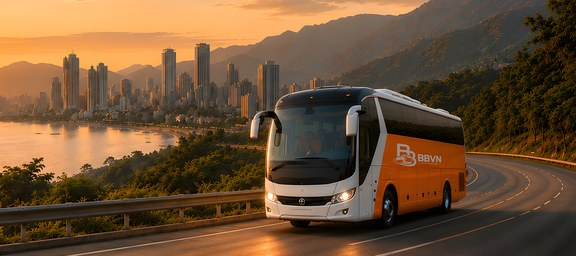
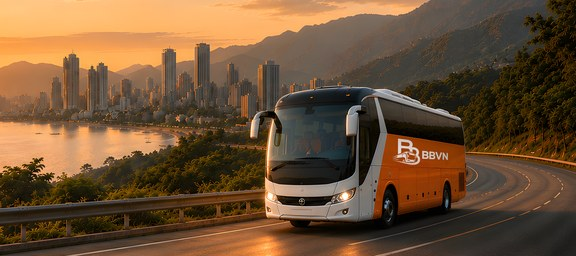
fix(hero): the bus decal was sub-pixel, unlit and sitting on a panel seam
Five measured passes over the flank livery after seeing it rendered. Each
started from a measurement, and three of them corrected a mistake from the pass
before.

1. THE TAGLINE COULD NEVER RENDER

The lockup carried strokes physically smaller than a pixel at the size it draws.
Measured against the source at the decal's real on-screen footprint:

    components                     26
    thinner than 1 CSS px          10  (38%), thinnest 0.34px
    "BUS BOOKING" rule height      2.0-2.9 CSS px at EVERY breakpoint
                                   (mobile 2.22, md 1.96, lg 2.14, 3xl 2.86)

Sub-pixel strokes cannot be drawn; they alias into the grey smear that was
visible under BBVN. For that rule to reach a legible 8px the decal would have to
span ~65% of the whole visible bus, so this is arithmetic, not a preference. It
is erased by alpha within the wordmark column -- never by cropping the canvas,
since the mark spans y[0,287] and a crop would behead it.

Wordmark glyphs now render 10.5-12.7 CSS px. The 7 remaining sub-pixel
components all sit INSIDE the monogram, where they read as texture rather than
as broken text.

2. SIZE AND POSITION ARE NOW SOLVED, NOT CHOSEN

The usable band is only ~225px tall and both edges slope:

    panel top (orange/window)   y 2265 @ x5220  ->  2332 @ x5640
    horizontal panel seam       y 2502 @ x5240  ->  2519 @ x5660

The panel top descends FASTER (0.1595/px) than the decal's own top edge
[…]

Changed region(s): [[0.6875, 0.5312, 0.7812, 0.6562]]

diff --git a/scripts/hero-logo.py b/scripts/hero-logo.py
@@ -63,7 +63,25 @@ LOGO = os.path.join(REPO, "public", "brand", "logo-horizontal-white.png")
 # Work box around the flank artwork, kept strictly INSIDE the orange panel.
 # A taller box clipped the darker window band above and the seam below, and the
 # panel fit then had to model two surfaces at once (grain sigma 6.79 vs 3.16).
-BOX = (5200, 2312, 5530, 2534)  # x0, y0, x1, y1
+#
+# x1 stays at 5530 even though the decal now reaches 5632. Widening it to 5650 to
+# "cover the whole decal" was tried and made things WORSE: the fit degraded (grain
+# sigma 3.16 -> 4.01) and the illumination it produced stopped tracking the paint
+# (correlation with the real falloff dropped 0.976 -> 0.568) while overshooting
+# into the clamp. The narrow box is better conditioned; its shape is right and
+# only its amplitude is short, which MODULATION_GAIN corrects.
+#
+# y1 stops at 2498 to stay ABOVE the panel seam (y 2502-2519), whose dark line
+# would otherwise drag the fit -- the robust pass rejects only positive residuals,
+# so a dark seam survives it.
+BOX = (5200, 2312, 5530, 2498)  # x0, y0, x1, y1  -- where the panel is FITTED
+
+# ...but the old artwork reaches y 2522, BELOW that. Fitting and erasing must
+# therefore use different regions: shrinking BOX to 2498 left the artwork's lower
+# fragments (x[5283,5329] y[2507,2522]) outside the erase mask, and they survived
+# as a stray light shape under the monogram. The panel model is simply evaluated
+# down here rather than fitted here.
+ERASE_BOX = (5200, 2312, 5530, 2534)
 
 # Measured plane gradients (see module docstring).
 TOP_SLOPE = 9.0 / 69.0
@@ -72,20 +90,119 @@ CAP_REF_X = 5379.0   # centre x of the first cap glyph
 CAP_AT_REF = 68.0    # its measured cap height
 
 # Destination anchor: left edge of the artwork block being replaced.
-# The real lockup is wider per unit cap height than the AI one (6.9x vs 4.0x)
-# because of the mark plus the "BUS BOOKING" rule, so it cannot both match the
-# old cap height AND fit the old footprint. 360 keeps the decal close to the
-# artwork it replaces (272 wide) without shrinking the wordmark to illegibility,
-# and leaves clear margin before the rear vent at x~5706.
+#
+# Size and centre are SOLVED against the panel's real boundaries, not chosen.
+# The usable band is only ~225px tall and both of its edges slope:
+#
+#   panel top (orange/window)   y 2265 @ x5220  ->  2332 @ x5640
+#   horizontal panel seam       y 2502 @ x5240  ->  2519 @ x5660
+#
+# and the panel top descends FASTER (0.1595/px) than the decal's own top edge
+# (TOP_SLOPE 0.1304/px), so clearance shrinks left-to-right and the binding
+# corner is the top-RIGHT one. Solving for the largest width keeping >=10px at
+# all four corners gives W=410, cy=2390: top 26/14, bottom 13/23.
+#
+# W=430 looked fine on the left and left only 2.9px at the top right. The
+# previous W=360/cy=2413 cleared the seam by 3.0px, i.e. the decal was sitting
+# ON the panel seam -- a line running through the base of the monogram, which is
+# part of why it read as "broken".
+#
+# The rear vent is NOT a constraint: measured at x[5712,5753] y[2560,2680], it is
+# both right of and below the decal.
 DEST_X = 5222
-DEST_W = 360
-ART_CY = 2413  # centre of the artwork block y[2323,2503]
+DEST_W = 410
+ART_CY = 2390
 
-# The flank is in shadow: its existing white livery ink renders at RGB
-# (151, 149, 151), NOT 255. Compositing at full white made the lockup read as a
-# sticker lying on the paint rather than sprayed into it. Measured on the eroded
-# CORE of the old artwork so anti-aliased edge pixels do not drag it down.
-INK_LEVEL = 150.0
+# Panel boundaries, measured. Used to ASSERT containment after the quad is built,
+# because the margins are 13-26px and a later constant change would eat them
+# silently.
+def panel_top_at(x):
+    return 2265.0 + (2332.0 - 2265.0) / (5640.0 - 5220.0) * (x - 5220.0)
+
+
+def panel_seam_at(x):
+    return 2502.0 + (2519.0 - 2502.0) / (5660.0 - 5240.0) * (x - 5240.0)
+
+
+MIN_MARGIN = 10.0
+
+# The wordmark's "BUS BOOKING" rule and its flanking dashes are ERASED before
+# warping. Measured on the source: they land 2.0-2.9 CSS px tall at every
+# breakpoint (mobile 2.22, md 1.96, lg 2.14, 3xl 2.86), which cannot be drawn --
+# 10 of the lockup's 26 components are thinner than one CSS pixel on screen, the
+# thinnest 0.34px, and they alias into the grey smear under BBVN. For the rule to
+# reach a legible 8px the decal would have to span ~292 CSS px, about 65% of the
+# whole visible bus.
+#
+# Erase by ALPHA within the wordmark column, never by cropping the canvas: the
+# mark spans y[0,287], nearly the full height, so a crop would behead it.
+#   MARK      x[0,296]    y[0,287]
+#   WORDMARK  x[321,681]  y[113,246], with a clean row gap at y[212,228]
+TAGLINE_X0 = 321
+TAGLINE_Y0 = 228
+
+# The flank is in shadow, so the decal is NOT full white -- compositing at 255
+# made the lockup read as a sticker lying on the paint rather than sprayed into
+# it. But 150, taken from the eroded core of the old artwork, was too dark: it
+# left the decal dimmer than the vehicle's own paintwork and, worse, gave it no
+# separation in the red channel.
+#
+#     decal   rgb(151.9, 143.3, 140.2)
+#     orange  rgb(154.0,  60.0,   3.9)
+#             R  -2.0     G +83.3   B +136.3
+#
+# The decal's red was IDENTICAL to the orange it sits on, so the logo separated
+# only through green and blue and read grey rather than white. Raising the level
+# fixes brightness and separation together, because all three channels scale.
+#
+# WHERE THE CEILING ACTUALLY IS. An earlier pass set this to 165 on the grounds
+# that "the brightest white bodywork is 162.3" -- but that figure was the MEAN of
+# a detected blob, dragged down by shaded and anti-aliased edge pixels, and it
+# badly understated the real whites. Measured against the whole frame instead:
+#
+#     frame luma   p50 139.9 | p75 187.2 | p90 204.8 | p95 209.6 | p99 232.0
+#     white pixels on the bus itself, p99: 250.0
+#
+# At 165 the decal sat near the frame's 60th PERCENTILE, i.e. darker than most of
+# the image, which is why it kept reading grey however the numbers were framed.
+#
+# Chosen off a rendered ladder (172/190/210/230 composited and compared at true
+# render scale) rather than from a formula, after three formula-driven guesses in
+# a row missed. Measured on the decal, with the frame percentile it lands at:
+#
+#     INK   mark   wordmark   mean   Rsep   frame pct
+#     172   169.1     155.5   165.0  +17.5     61%   <- judged too dark
+#     190   186.2     171.2   181.6  +34.3     70%
+#     210   205.1     188.6   200.0  +53.0     86%   <- chosen
+#     230   223.9     206.0   218.5  +71.6     98%   <- judged too bright
+#
+# 210 sits above most of the image but below the vehicle's own 250 peak white.
+# 190 is deliberately not used: at p70 it is close to the 172 already called dark.
+#
+# Note the alpha-0.94 composite: the rendered result lands ~4% BELOW this
+# constant, the remaining 6% being orange panel showing through.
+#     0.94 * 210 + 0.06 * 81 (panel) = 202
+INK_LEVEL = 210.0
+
+# Amplitude of the illumination modulation. See the modulation block in main()
+# for why a gain is needed at all rather than using the fitted surface directly.
+#
+# Calibrated by sweep against the real paint, which swings 25.6% across the
+# decal's own band. Resulting ink swing / correlation with that falloff:
+#     gain 2.0 -> 17.4%  (+0.967)
+#     gain 2.5 -> 21.7%  (+0.966)
+#     gain 3.0 -> 26.0%  (+0.966)
+# Correlation is flat across the sweep because gain scales amplitude only; the
+# shape comes from the fitted surface and is already right.
+#
+# 2.0 rather than the paint-matching 3.0, on purpose. The paint dims left-to-
+# right and the BBVN wordmark sits on the RIGHT, so a full-strength match
+# penalises exactly the element carrying the brand name:
+#     gain 3.0 -> mark 151.0, wordmark 133.1
+#     gain 2.0 -> mark 164.6, wordmark 151.5   (at INK_LEVEL 165)
+# 17% is still a real lighting response and keeps the decal sitting in the
+# photograph; going below ~1.5 flattens it back into a sticker.
+MODULATION_GAIN = 2.0
 
 # Master this script's constants were measured against.
 EXPECT_SIZE = (6688, 3764)
@@ -120,24 +237,62 @@ def panel_model_and_mask(img, iters=4, thresh=7.0):
 
     keep = np.ones(h * w, bool)
     model = np.zeros_like(sub)
+    coefs = [None, None, None]
     for _ in range(iters):
         for c in range(3):
             coef, *_ = np.linalg.lstsq(A[keep], sub[:, :, c].ravel()[keep], rcond=None)
+            coefs[c] = coef
             model[:, :, c] = (A @ coef).reshape(h, w)
         keep = (sub - model).mean(2).ravel() < thresh
 
-    ink = (~keep).reshape(h, w).astype(np.uint8)
+    # Detect over ERASE_BOX, not over the fit box. The old artwork reaches y 2522
+    # while the fit deliberately stops at 2498 to stay above the panel seam, so
+    # detecting only where we fitted leaves the artwork's lower fragments behind.
+    ex0, ey0, ex1, ey1 = ERASE_BOX
+    esub = img[ey0:ey1, ex0:ex1].astype(np.float64)
+    eh, ew = esub.shape[:2]
+    eyy, exx = np.mgrid[ey0:ey1, ex0:ex1]
+    emodel = illumination(coefs, exx.astype(np.float64), eyy.astype(np.float64))
+    ink = ((esub - emodel).mean(2) >= thresh).astype(np.uint8)
     ink = cv2.morphologyEx(ink, cv2.MORPH_CLOSE, np.ones((7, 7), np.uint8))
     full = np.zeros(img.shape[:2], np.uint8)
-    full[y0:y1, x0:x1] = ink
-    return full, model
+    full[ey0:ey1, ex0:ex1] = ink
+    return full, model, coefs
 
 
-def reconstruct(img, mask, model, rng):
-    """Replace flagged pixels with the fitted panel plus matched grain."""
+def illumination(coefs, xs, ys):
+    """Evaluate the fitted panel surface at arbitrary MASTER coordinates.
+
+    The enlarged decal reaches x 5632 and y 2291, outside BOX, so the model has
+    to be evaluated beyond the region it was fitted on. The fit is NOT widened to
+    cover it: BOX is deliberately confined to clean paint, and stretching it over
+    the window band above would make the quadratic model two surfaces at once
+    (that mistake previously showed up as grain sigma 6.79 vs 3.16).
+
+    Extrapolation is modest -- about 31% past the box in x, 9% in y -- and a
+    smooth quadratic tolerates that. The caller still clamps the result.
+    """
     x0, y0, x1, y1 = BOX
+    w, h = x1 - x0, y1 - y0
+    xn = (xs - x0) / w - 0.5
+    yn = (ys - y0) / h - 0.5
+    A = _poly_basis(xn.ravel(), yn.ravel())
+    out = np.stack([(A @ c).reshape(xs.shape) for c in coefs], axis=-1)
+    return out
+
+
+def reconstruct(img, mask, coefs, rng):
+    """Replace flagged pixels with the fitted panel plus matched grain.
+
+    Works over ERASE_BOX, which extends below the fit box to cover the whole of
+    the old artwork, so the panel surface is EVALUATED here rather than reused
+    from the fit.
+    """
+    x0, y0, x1, y1 = ERASE_BOX
     out = img.copy()
     sub = out[y0:y1, x0:x1].astype(np.float64)
+    yy, xx = np.mgrid[y0:y1, x0:x1]
+    model = illumination(coefs, xx.astype(np.float64), yy.astype(np.float64))
     grow = cv2.dilate((mask[y0:y1, x0:x1] > 0).astype(np.uint8),
                       np.ones((9, 9), np.uint8)) > 0
     clean = ~grow
@@ -174,6 +329,29 @@ def dest_quad():
     print(f"    plane cap height {h_left:.1f} (x={DEST_X}) -> {h_right:.1f} "
           f"(x={DEST_X + DEST_W}), foreshorten {shrink:.3f}")
     print(f"    quad height {hl:.1f} -> {hr:.1f}")
+
+    # Containment. The clean band is ~225px tall between a sloping panel edge and
+    # a sloping seam, and the decal is 197px of it -- these margins are 13-26px,
+    # small enough that a later tweak to DEST_W or ART_CY could push the decal
+    # into the window glass or across the seam without anyone noticing on screen,
+    # where the whole lockup is under 100 CSS px wide.
+    xl, xr = DEST_X, DEST_X + DEST_W
+    gaps = {
+        "top-left": top_l - panel_top_at(xl),
+        "top-right": top_r - panel_top_at(xr),
+        "bottom-left": panel_seam_at(xl) - (top_l + hl),
+        "bottom-right": panel_seam_at(xr) - (top_r + hr),
+    }
+    print("    panel-band margins: "
+          + "  ".join(f"{k} {v:.0f}px" for k, v in gaps.items()))
+    tight = {k: v for k, v in gaps.items() if v < MIN_MARGIN}
+    if tight:
+        raise SystemExit(
+            f"REFUSING: decal is within {MIN_MARGIN:.0f}px of the panel edge at "
+            + ", ".join(f"{k} ({v:.1f}px)" for k, v in tight.items())
+            + ". Re-solve DEST_W/ART_CY against panel_top_at/panel_seam_at."
+        )
+
     return np.float32([
         [DEST_X, top_l],
         [DEST_X + DEST_W, top_r],
@@ -199,11 +377,15 @@ def main():
         return 1
 
     rng = np.random.default_rng(20260730)
-    mask, model = panel_model_and_mask(src)
+    mask, model, coefs = panel_model_and_mask(src)
     print(f"    artwork ink pixels: {int(mask.sum())}")
-    cleaned = reconstruct(src, mask, model, rng)
+    cleaned = reconstruct(src, mask, coefs, rng)
 
     logo = np.asarray(Image.open(LOGO).convert("RGBA")).astype(np.float32)
+    before = int((logo[:, :, 3] > 25).sum())
+    logo[TAGLINE_Y0:, TAGLINE_X0:, 3] = 0.0
+    print(f"    tagline erased: ink pixels {before} -> "
+          f"{int((logo[:, :, 3] > 25).sum())}")
     lh, lw = logo.shape[:2]
     M = cv2.getPerspectiveTransform(
         np.float32([[0, 0], [lw, 0], [lw, lh], [0, lh]]), dest_quad())
@@ -225,7 +407,36 @@ def main():
     print(f"    white-ink core rgb={ink_px.mean(0).round(1).tolist()} "
           f"level={ink_px.mean():.0f} tint={tint.round(3).tolist()}")
 
-    ink = warped[:, :, :3] / 255.0 * tint[None, None, :] * INK_LEVEL
+    # Modulate the ink by the panel's own illumination. A FLAT ink level is what
+    # made the decal read as a sticker: measured, the panel varies 13.5% in
+    # luminance across the decal's width and the generator's own painted logo
+    # varied 21.4%, while a flat INK_LEVEL varied 0.5%. Real paint on a shaded
+    # surface tracks the light; anything that doesn't is read as lying on top.
+    #
+    # INK_LEVEL stays the MEAN target, so overall density is unchanged and only
+    # the falloff is added.
+    ys, xs = np.mgrid[0:H, 0:W]
+    lit = illumination(coefs, xs.astype(np.float64), ys.astype(np.float64))
+    lit_lum = 0.299 * lit[:, :, 0] + 0.587 * lit[:, :, 1] + 0.114 * lit[:, :, 2]
+    hot = warped[:, :, 3] > 0
+    ref = float(lit_lum[hot].mean()) if hot.any() else 1.0
+    # The fitted surface has the right SHAPE but too little amplitude over the
+    # decal, because the decal's right third sits outside BOX and is
+    # extrapolated. Gain restores the magnitude without touching the shape.
+    # Calibrated against the real paint: clean panel inside the decal's own band
+    # falls 83.7 -> 64.3, a 25.6% swing, and unmodulated ink swings 0.6%.
+    # (The 13.5% quoted while diagnosing this was sampled BELOW the seam, on a
+    # different panel -- wrong surface, too small a number.)
+    #
+    # Clamped because `lit` is extrapolated outside BOX; a runaway quadratic must
+    # not be able to blow out or black out the decal.
+    shade = 1.0 + MODULATION_GAIN * (lit_lum / max(ref, 1e-6) - 1.0)
+    shade = np.clip(shade, 0.80, 1.20)[:, :, None]
+    print(f"    illumination modulation across the decal: "
+          f"{shade[hot].min():.3f} .. {shade[hot].max():.3f} "
+          f"({(shade[hot].max() / shade[hot].min() - 1) * 100:.1f}% range)")
+
+    ink = warped[:, :, :3] / 255.0 * tint[None, None, :] * INK_LEVEL * shade
     alpha = (warped[:, :, 3:4] / 255.0) * 0.94  # just under full, so it sits in the paint
     out = np.clip(cleaned.astype(np.float32) * (1 - alpha) + ink * alpha, 0, 255).astype(np.uint8)
 

diff --git a/public/hero/CREDITS.md b/public/hero/CREDITS.md
@@ -20,15 +20,15 @@ WebKit bug and is unsupported in Safari — so only density is.
 
 | File | Pixels | Bytes | Serves |
 |------|--------|-------|--------|
-| `landing-golden-1280.jpg` | 768×1397 (portrait) | 216 KB | mobile `<768`, DPR1 + fallback |
-| `landing-golden-1280@2x.webp` | 1536×2794 | 277 KB | mobile DPR2 **and** DPR3 (covers 752@2× = 1504 and 430@3× = 1245) |
-| `landing-golden-md-1536.jpg` | 1536×1275 | 398 KB | md `768–1023`, DPR1 + fallback |
-| `landing-golden-md-1536@2x.webp` | 2048×1700 | 326 KB | md DPR2 (covers 1008@2× = 2016) |
-| `landing-golden-1920.jpg` | 1920×1081 | 444 KB | lg `1024–1919`, DPR1 + fallback |
-| `landing-golden-1920@2x.webp` | 3072×1729 | 490 KB | lg DPR2; 1.24× residual at the very top of the range |
-| `landing-golden-3840.jpg` | 2560×978 | 469 KB | 3xl `≥1920`, DPR1 + fallback |
-| `landing-golden-3840@2x.webp` | 3840×1468 | 408 KB | 3xl DPR2 (covers 1905@2× = 3810, i.e. 4K at 200% scaling) |
-| `contract-rental-thumb.jpg` | 576×256 | 42 KB | `components/home/ContractCarRental.tsx` — NOT a hero variant |
+| `landing-golden-1280.jpg` | 768×1397 (portrait) | 212 KB | mobile `<768`, DPR1 + fallback |
+| `landing-golden-1280@2x.webp` | 1536×2794 | 272 KB | mobile DPR2 **and** DPR3 (covers 752@2× = 1504 and 430@3× = 1245) |
+| `landing-golden-md-1536.jpg` | 1536×1275 | 390 KB | md `768–1023`, DPR1 + fallback |
+| `landing-golden-md-1536@2x.webp` | 2048×1700 | 319 KB | md DPR2 (covers 1008@2× = 2016) |
+| `landing-golden-1920.jpg` | 1920×1081 | 434 KB | lg `1024–1919`, DPR1 + fallback |
+| `landing-golden-1920@2x.webp` | 3072×1729 | 480 KB | lg DPR2; 1.24× residual at the very top of the range |
+| `landing-golden-3840.jpg` | 2560×978 | 459 KB | 3xl `≥1920`, DPR1 + fallback |
+| `landing-golden-3840@2x.webp` | 3840×1468 | 400 KB | 3xl DPR2 (covers 1905@2× = 3810, i.e. 4K at 200% scaling) |
+| `contract-rental-thumb.jpg` | 576×256 | 41 KB | `components/home/ContractCarRental.tsx` — NOT a hero variant |
 
 The `1280` / `md-1536` / `1920` / `3840` in the filenames are historical and no
 longer describe the width of anything. They are kept because renaming buys
@@ -40,6 +40,14 @@ super-resolved 4× with `realesrgan-x4plus`. The bus's livery is
 `public/brand/logo-horizontal-white.png` composited by `scripts/hero-logo.py` —
 the generator had painted an approximation reading "BBVn" over a line of
 gibberish, and 4× super-resolution rendered that sharply rather than hiding it.
+
+The decal carries the **mark plus the BBVN wordmark only**. The "BUS BOOKING"
+rule below the wordmark is erased before compositing: it renders 2.0–2.9 CSS px
+tall at every breakpoint, which cannot be drawn, and aliases into a grey smear.
+For it to reach a legible 8 px the decal would have to span roughly 65% of the
+visible bus. See `scripts/hero-logo.py` for the measurements behind that, and
+behind the decal's size, position and brightness — all four are solved against
+the panel's real boundaries rather than chosen.
 
 ## Unreferenced legacy assets
 
